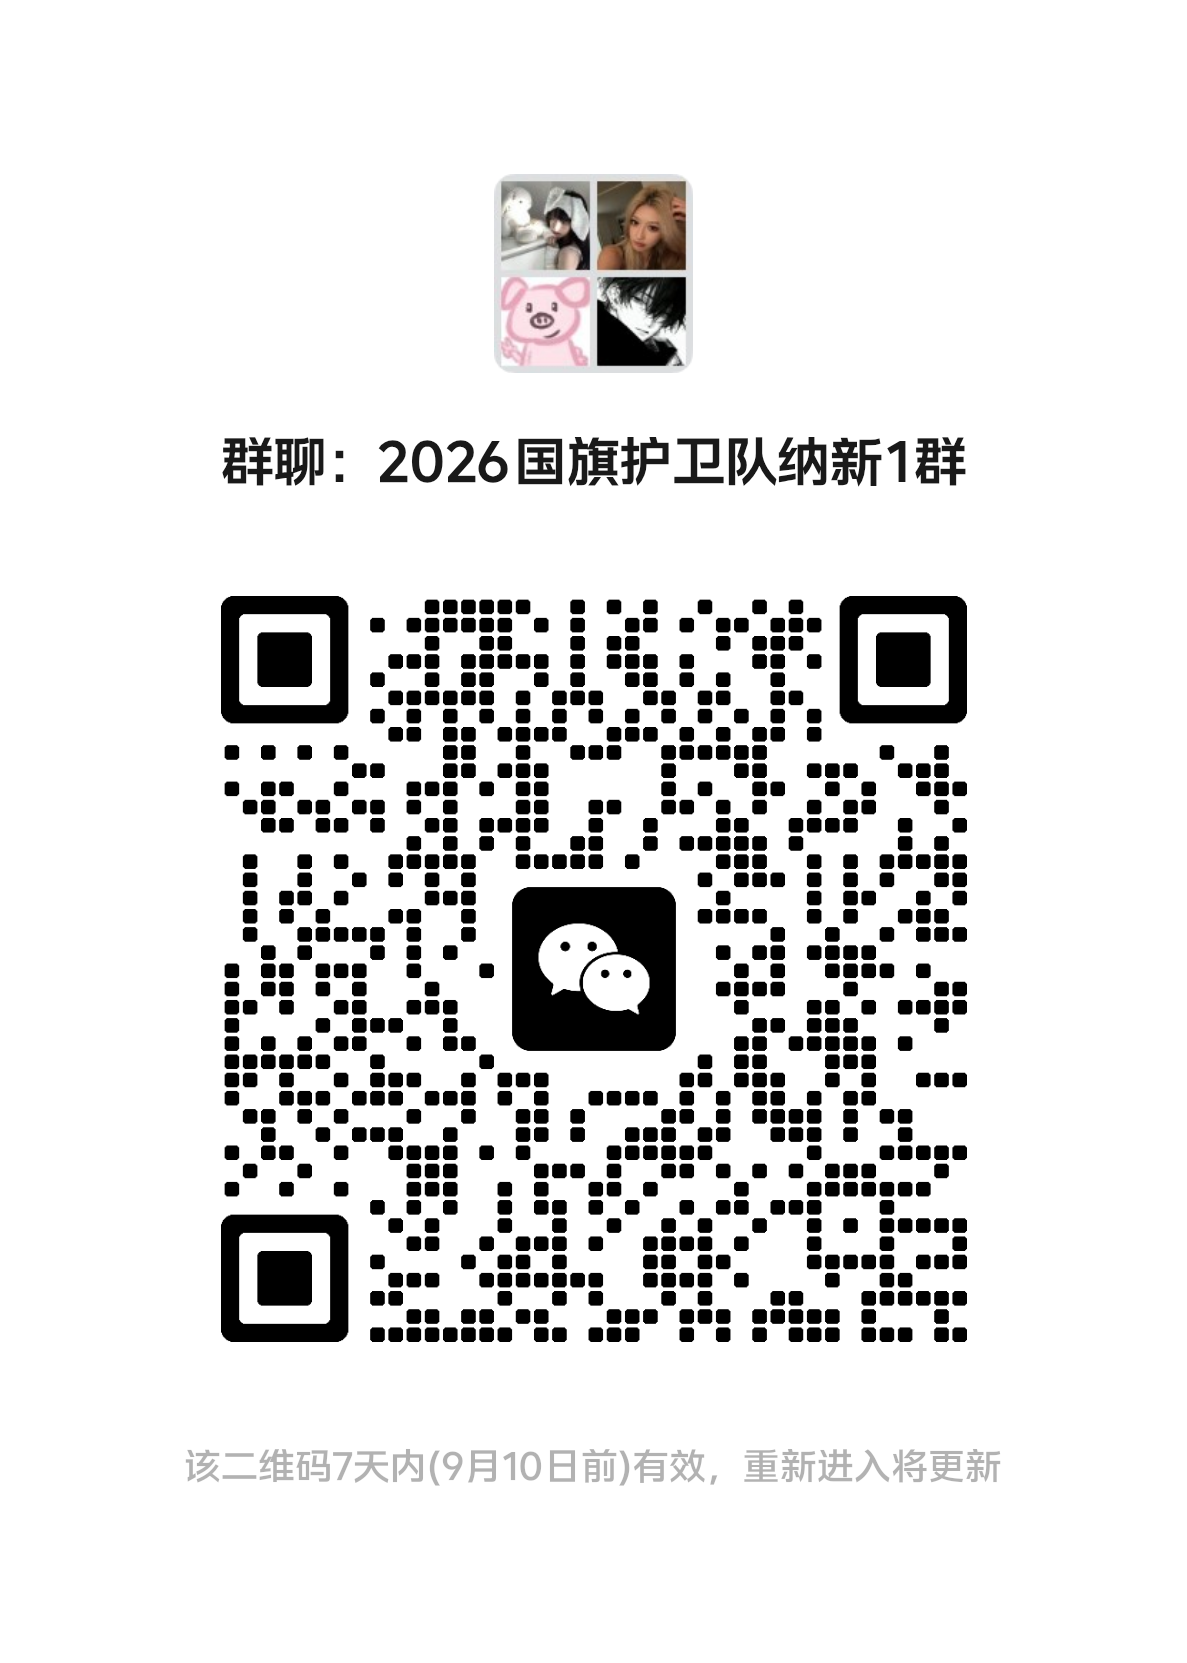
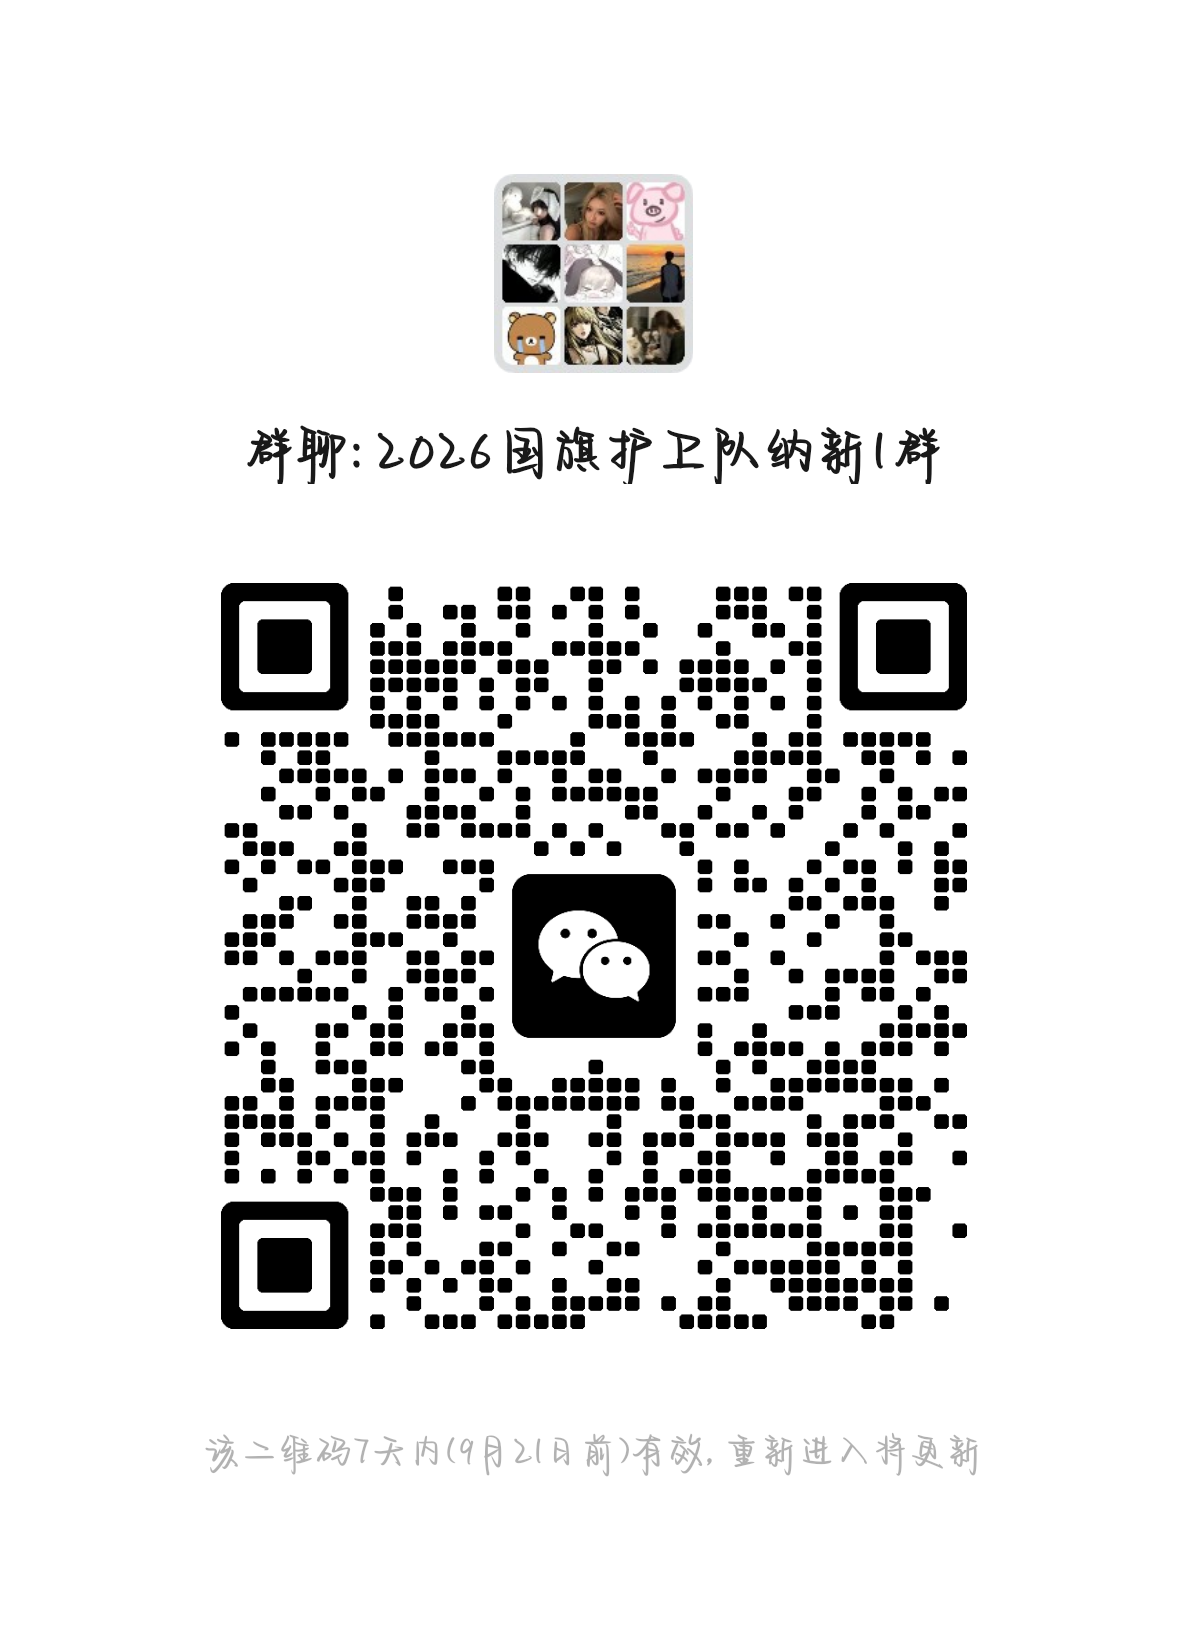
Add files via upload

Changed region(s): [[0.187, 0.3396, 0.8104, 0.8335], [0.187, 0.0926, 0.8104, 0.3087], [0.1559, 0.8644, 0.8416, 0.8953]]

diff --git a/config.js b/config.js
@@ -31,10 +31,10 @@ window.HUOMA_CONFIG = {
   qrImage: 'qrcode-current.png',
 
   /* 本页信息更新日期（YYYY-MM-DD，同时用于图片防缓存） */
-  updatedAt: '2026-09-03',
+  updatedAt: '2026-09-14',
 
   /* 该群码失效日期（仅用于页面提示，一般为更新日 +7 天） */
-  expireBefore: '2026-09-10',
+  expireBefore: '2026-09-21',
 
   /* 群负责人联系方式（选填，显示在页面底部，例如 '微信：zhangsan2026'） */
   contact: '',
